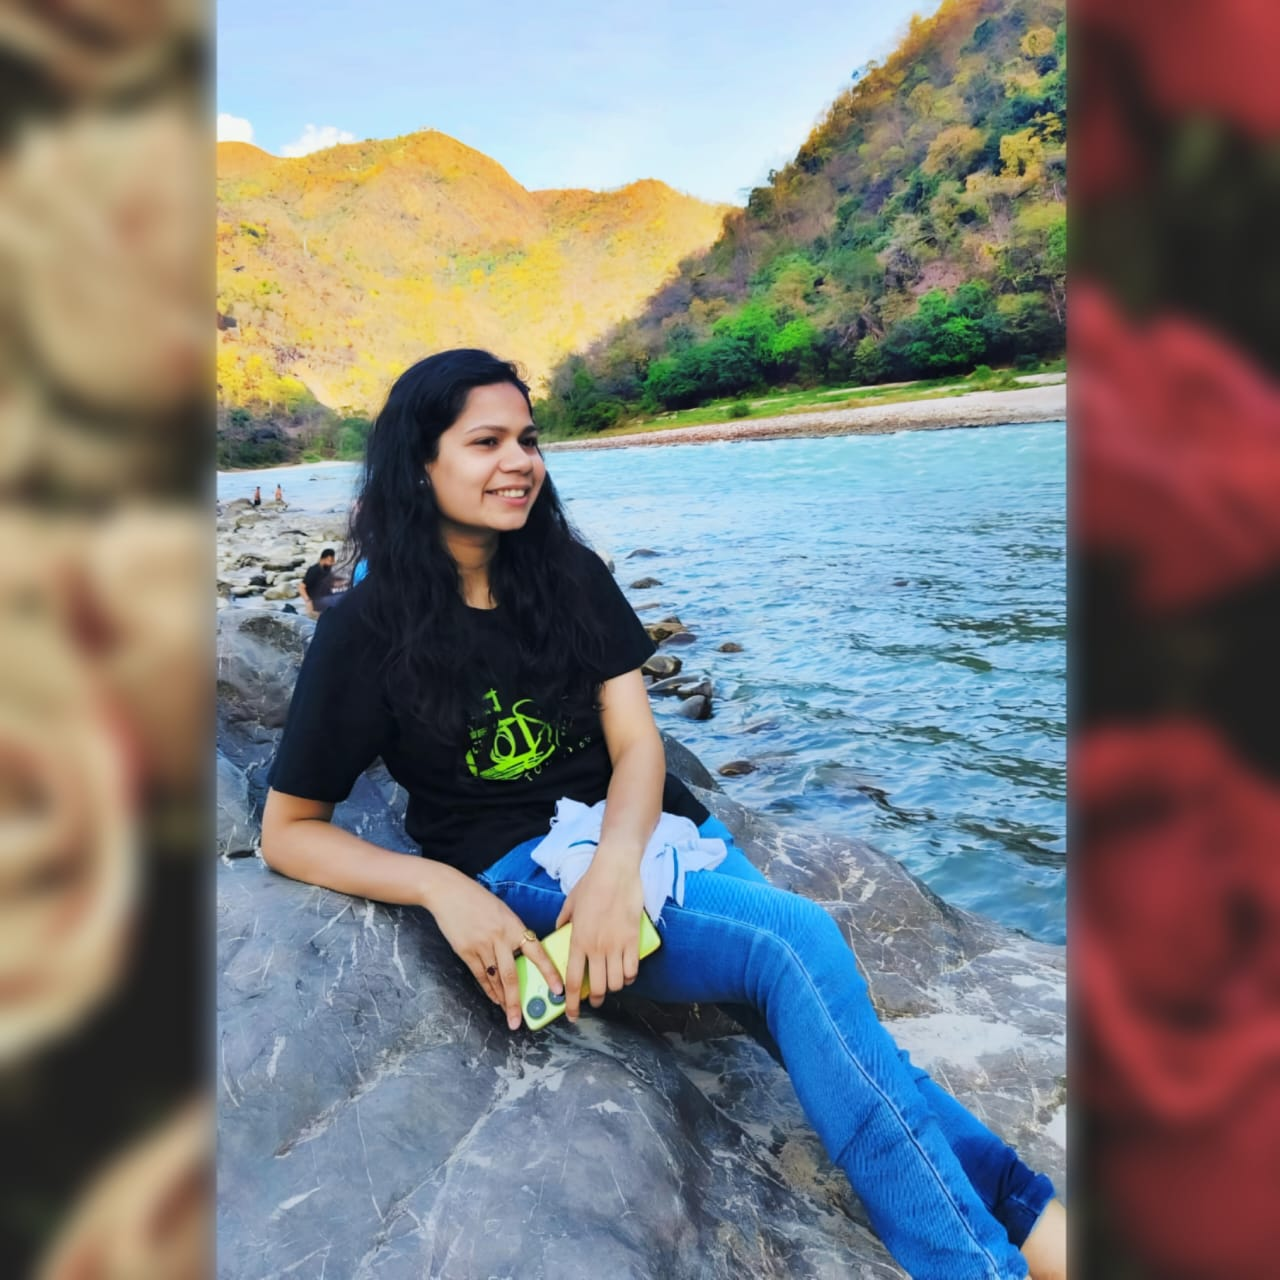
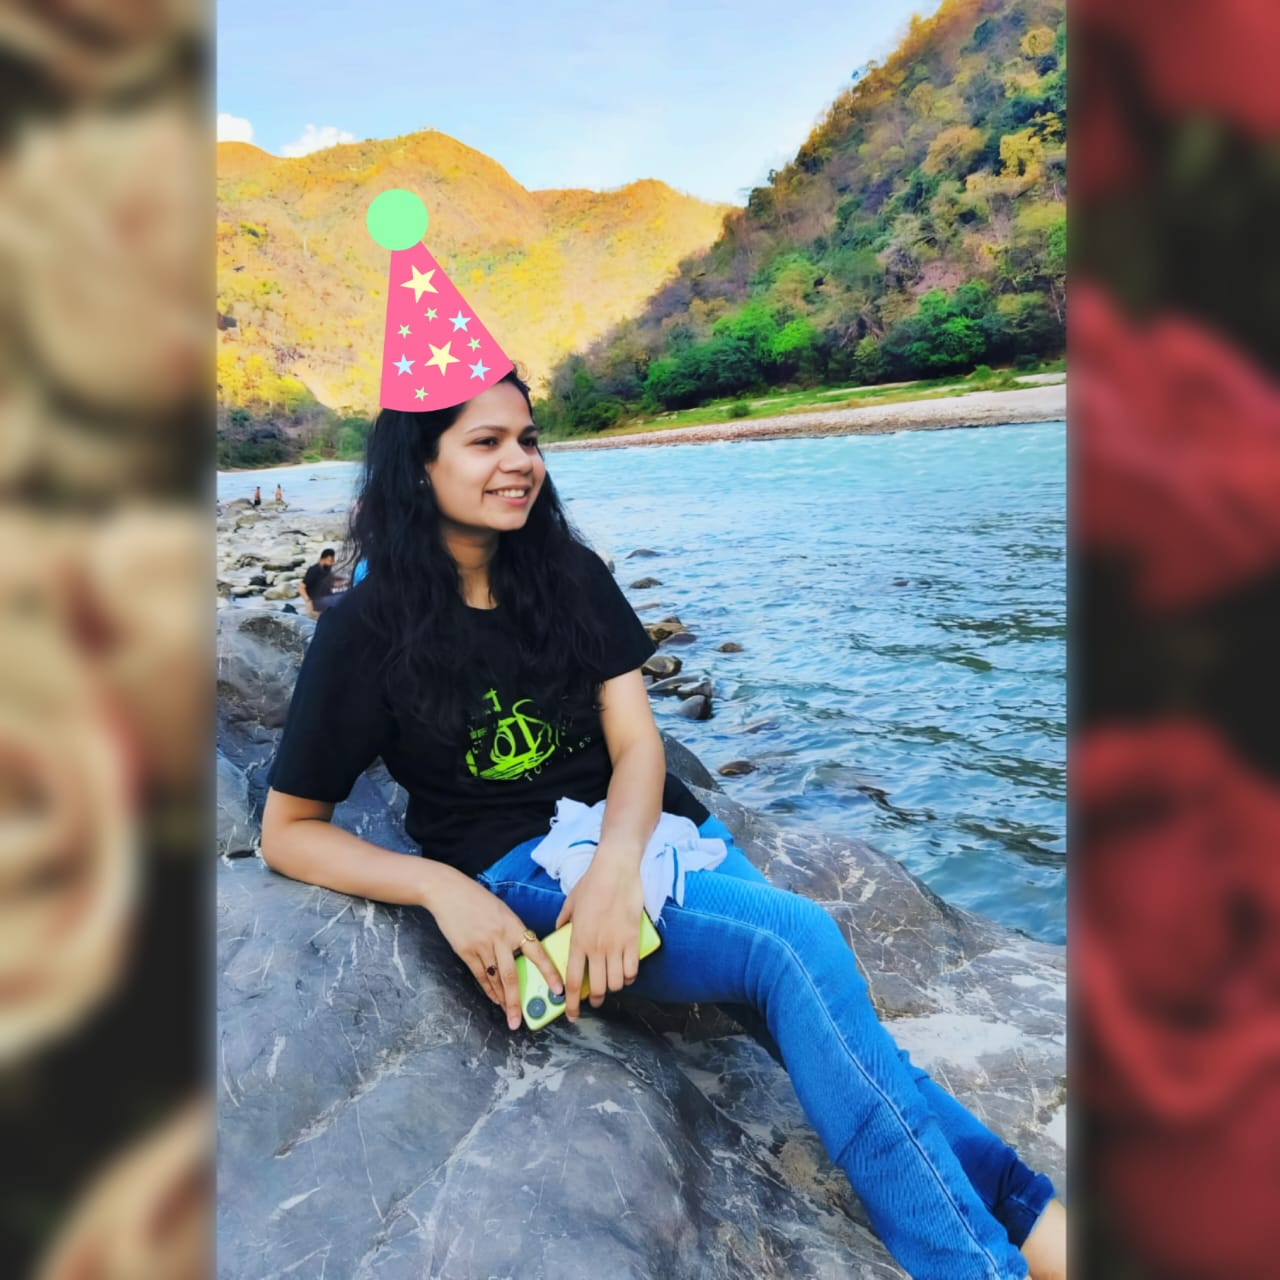
i guess it is final commit

Changed region(s): [[0.2812, 0.125, 0.4062, 0.3438]]

diff --git a/index.html b/index.html
@@ -46,8 +46,8 @@
       </p>
     </div>
     <div class="six">
-      <img src="img/Mishthi.jpg" alt="" class="lydia-dp" data-node-name="imagePath">
-      <img src="img/hat.svg" alt="" class="hat">
+      <img src="img/Mishthi.jpg" width="60%" alt="" class="lydia-dp" data-node-name="imagePath">
+      <!-- <img src="img/hat.svg" alt="" class="hat"> -->
       <div class="wish">
         <h3 class="wish-hbd" data-node-name="wishHeading">Happy Birthday!</h3>
         <h5 data-node-name="wishText">May your life stay free from dhum tana nana ;)</h5>

diff --git a/script/main.js b/script/main.js
@@ -220,12 +220,12 @@ const animationTimeline = () => {
       },
       "-=2"
     )
-    .from(".hat", 0.5, {
-      x: -100,
-      y: 350,
-      rotation: -180,
-      opacity: 0
-    })
+    // .from(".hat", 0.5, {
+    //   x: -100,
+    //   y: 350,
+    //   rotation: -180,
+    //   opacity: 0
+    // })
     .staggerFrom(
       ".wish-hbd span",
       0.7,
